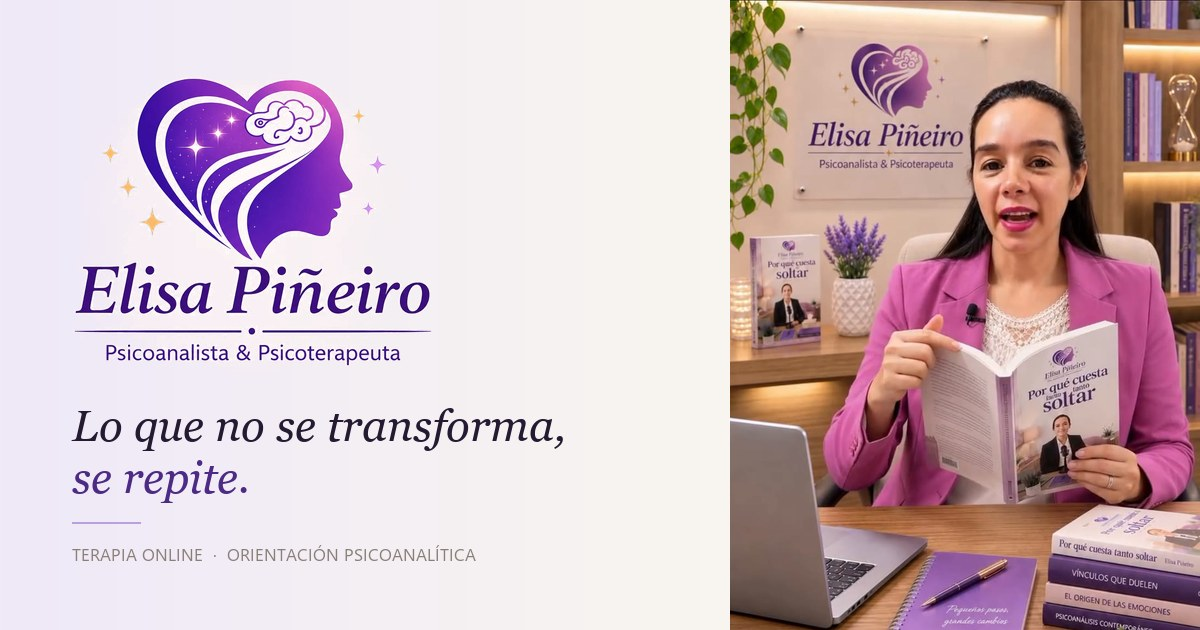
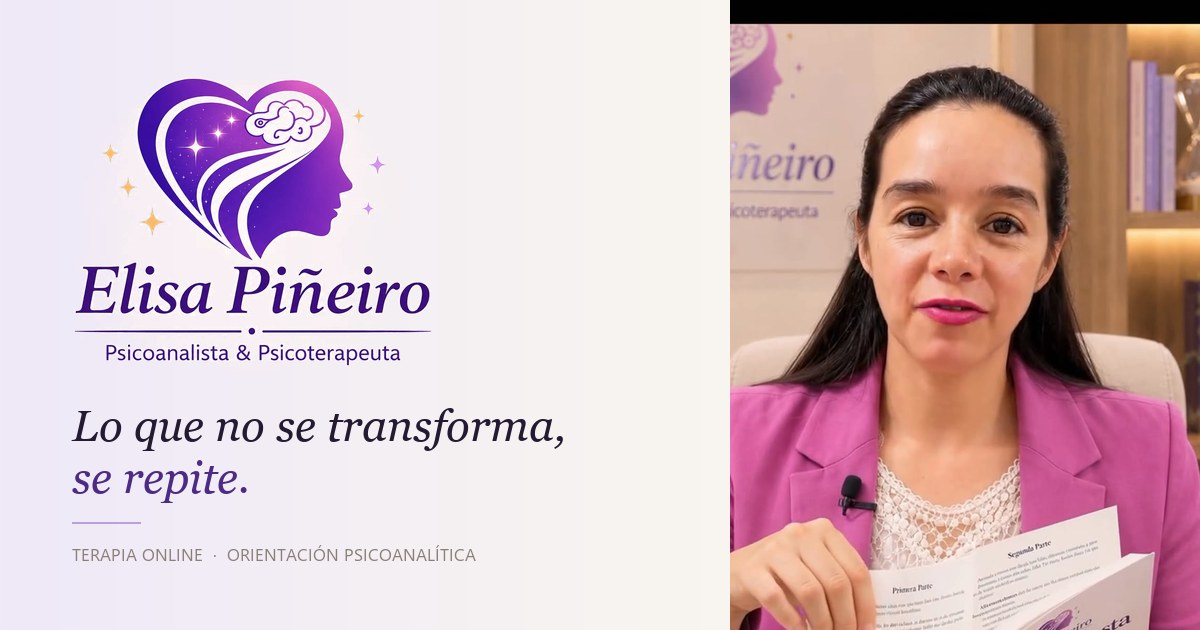
fix(demoelisapineiro): foto real de Elisa en el hero + WhatsApp definitivo
El hero pasa de la toma del consultorio vacío a un frame de ella con su
libro. Se reemplaza la inset del libro para que no repita la misma toma y
se regenera el og con la foto nueva.

WA: 5491126419821.

diff --git a/demoelisapineiro/index.html b/demoelisapineiro/index.html
@@ -116,7 +116,7 @@
 
     <div class="hero__pic">
       <figure class="frame">
-        <img src="img/espacio.jpg" alt="Consultorio de Elisa Piñeiro: sillón lila, escritorio y el logo en la pared" width="720" height="1488" loading="eager" decoding="async">
+        <img src="img/hero.jpg" alt="Elisa Piñeiro en su consultorio con su libro «Por qué cuesta tanto soltar»" width="900" height="1530" loading="eager" decoding="async">
       </figure>
       <div class="hero__card">
         <strong>+4 años</strong>

diff --git a/demoelisapineiro/script.js b/demoelisapineiro/script.js
@@ -9,7 +9,7 @@
      WA: número de WhatsApp con código de país, sin + ni espacios.
      REDES: links reales de cada red (dejar '' para ocultar).
      --------------------------------------------------------- */
-  var WA = '5491100000000';            // TODO: número real de Elisa
+  var WA = '5491126419821';
   var REDES = {
     facebook: '',                      // TODO
     youtube: '',                       // TODO
